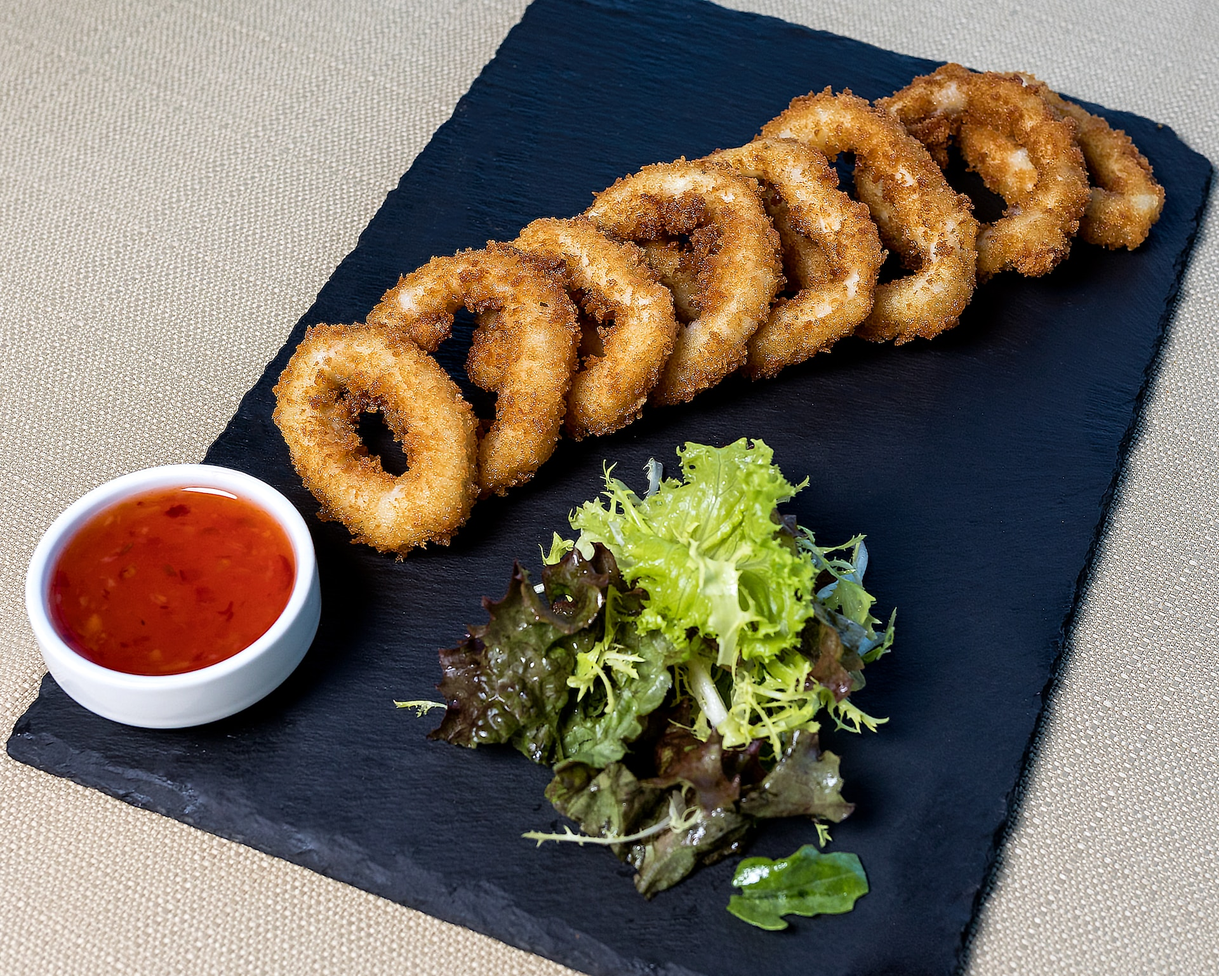
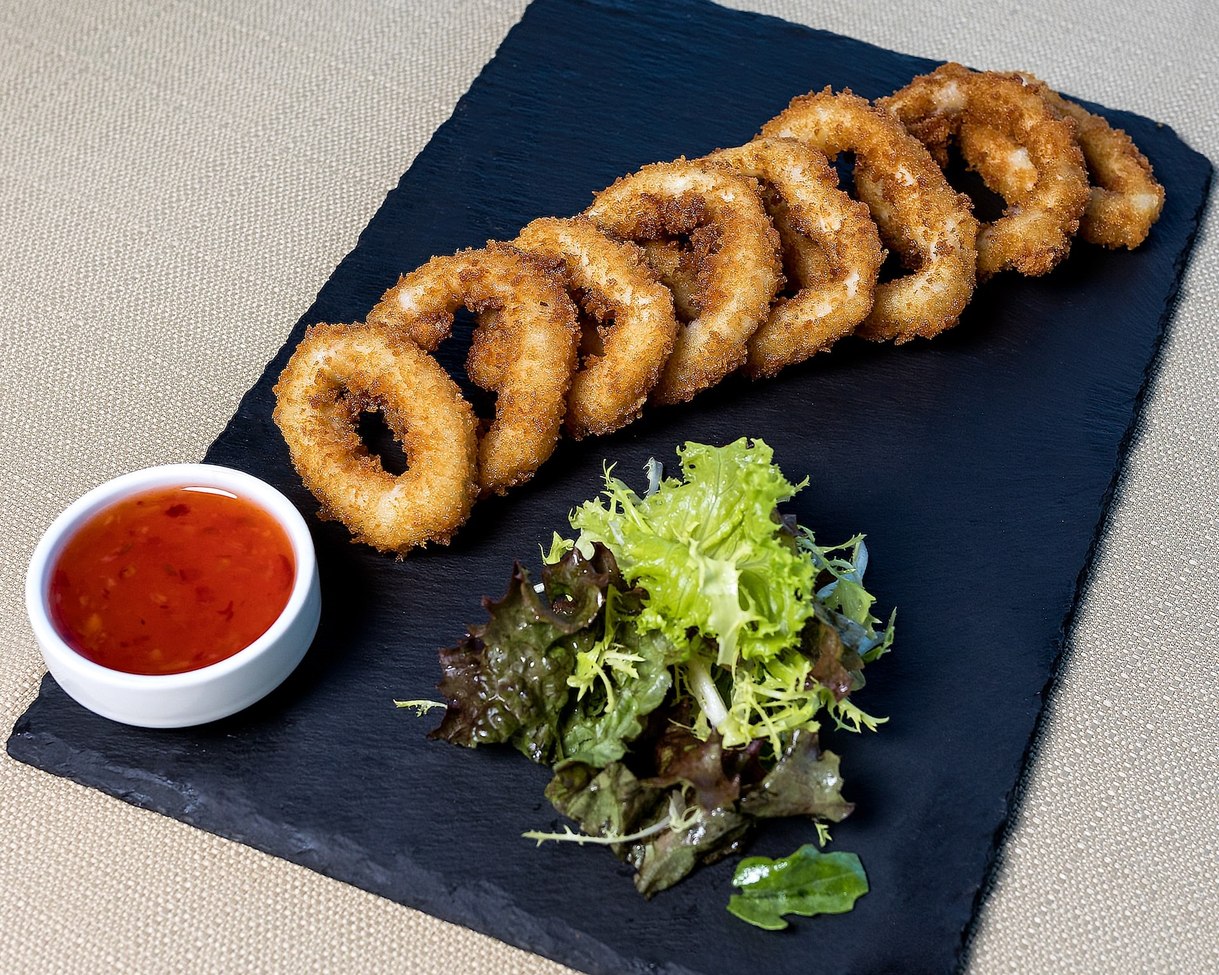
resized photos for drinks and food menu

diff --git a/components/menuPage.js b/components/menuPage.js
@@ -25,10 +25,13 @@ function MainMenu() {
                 <span className="px-4 py-2 rounded-r-md bg-blue-200 peer-checked:bg-gray-300">Drinks</span>
             </label>
             <div className="grid grid-cols-1 md:grid-cols-2 xl:grid-cols-3 2xl:grid-cols-4 gap-4 text-brown text-center py-20">
+                
                 {isFood ? (
                     foodMenu.map((m, index) => {
                         return (
-                            <div className="w-80 mt-24 m-auto lg:mt-16 max-w-sm" key={index}>
+                            <div className="flex">
+                                <div className="flex-1 h-full"> 
+                            <div className="h-full w-80 h-max mt-24 m-auto lg:mt-16 max-w-sm" key={index}>
                                 <img src={m.image} alt="User Images" className="rounded-t-2xl shadow-2xl lg:w-full 2xl:w-full 2xl:h-44 object-cover" />
                                 <div className="bg-white shadow-2xl rounded-b-3xl">
                                     <h2 className="text-center text-gray-800 text-2xl font-bold pt-6">{m.title}</h2>
@@ -36,6 +39,8 @@ function MainMenu() {
                                         <p className="text-center text-gray-500 pt-5 pb-4">{m.description}</p>
                                     </div>
                                 </div>
+                            </div>
+                            </div>
                             </div>
                         )
                     })
